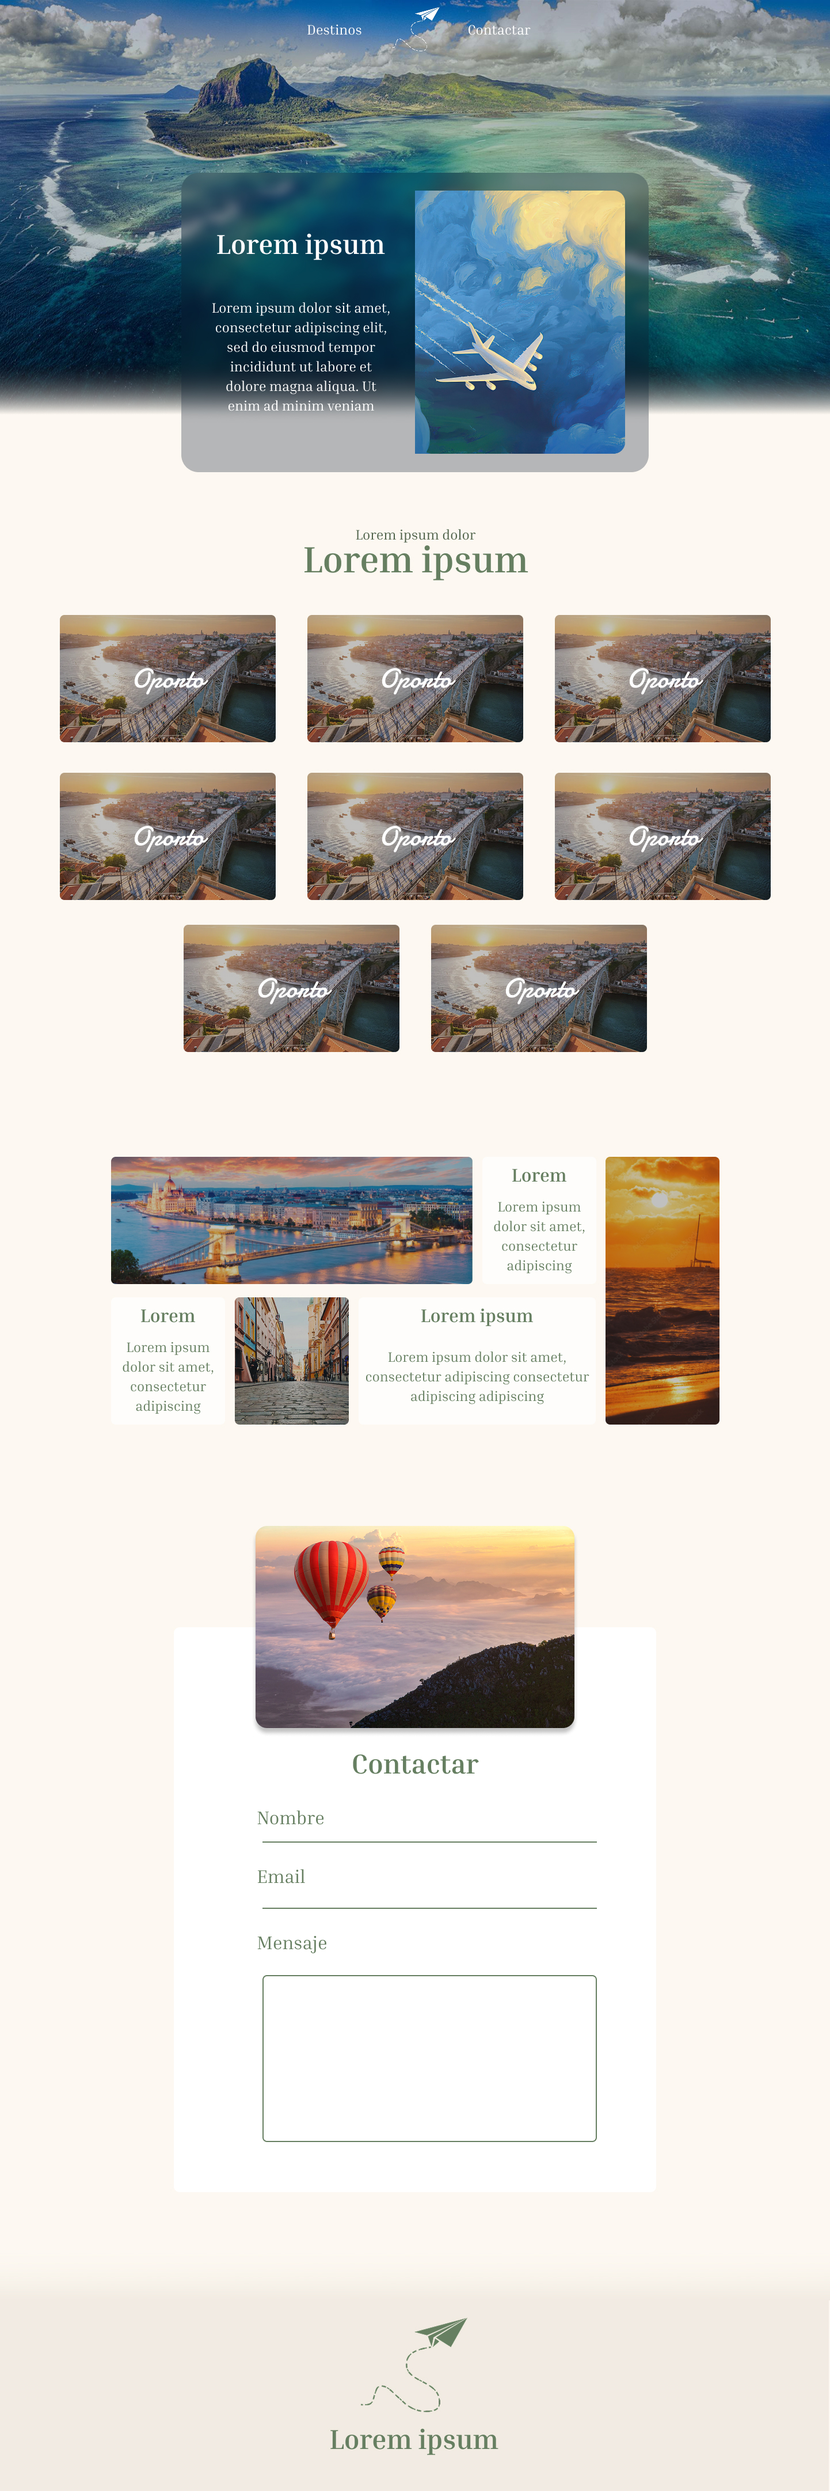
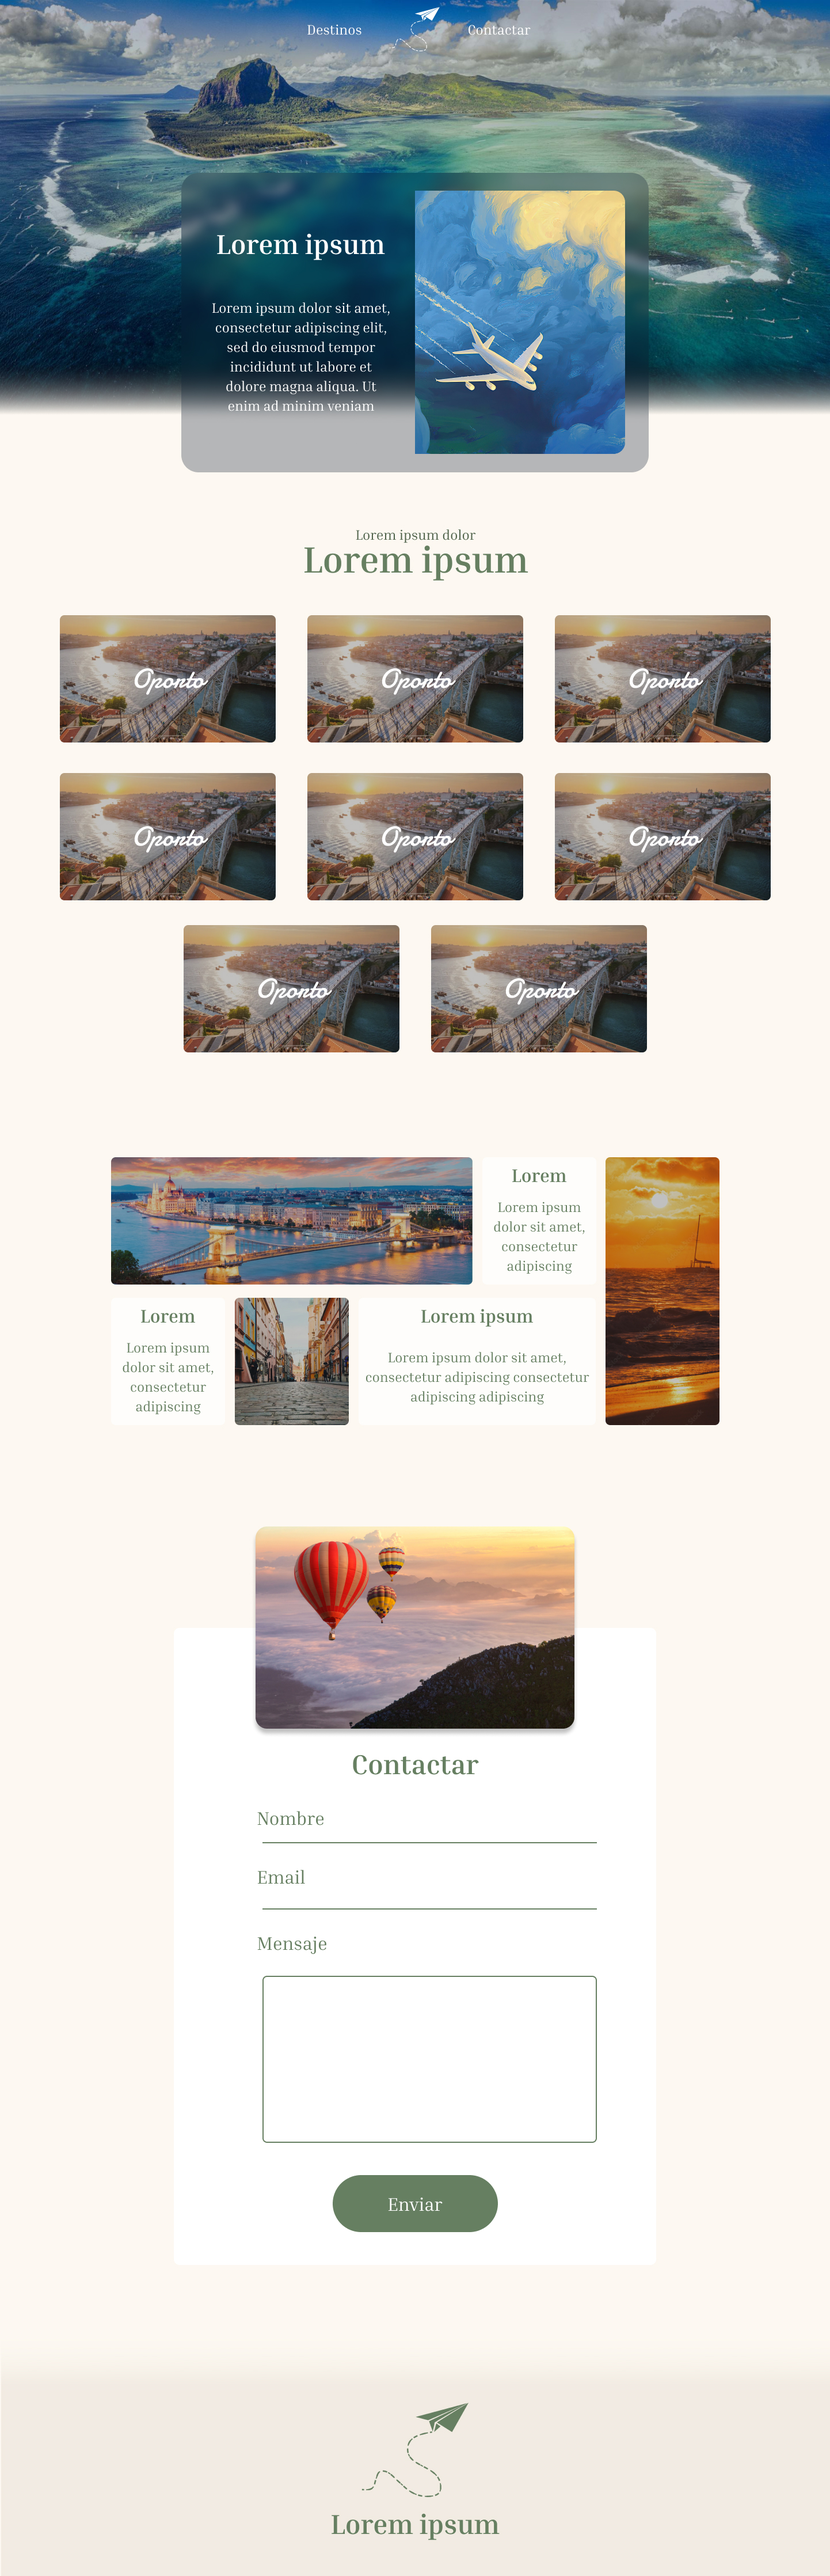
Add HTML content and update mockup 4

diff --git a/index.html b/index.html
@@ -8,35 +8,103 @@
 <body>
     <!--Nav menu START-->
     <nav>
-
+        <ul>
+            <li><a href="#fates"></a></li>
+            <li><a href="#"></a></li>
+            <li><a href="#contact"></a></li>
+        </ul>
     </nav>
     <!--Nav menu END-->
     <article>
-        <!--Header START-->
+        <!--Header section-->
         <header>
-
+            <div>
+                <div>
+                    <h1></h1>
+                    <p></p>
+                </div>
+                <img src="" alt="">
+            </div>
         </header>
-        <!--Header END-->
+        <!--END Header section-->
         <!--Places section START-->
-        <section id="places">
-
+        <section id="fates">
+            <h3></h3>
+            <h2></h2>
+            <div class="destiny">
+                <h4></h4>
+            </div>
+            <div class="destiny">
+                <h4></h4>
+            </div>
+            <div class="destiny">
+                <h4></h4>
+            </div>
+            <div class="destiny">
+                <h4></h4>
+            </div>
+            <div class="destiny">
+                <h4></h4>
+            </div>
+            <div class="destiny">
+                <h4></h4>
+            </div>
+            <div class="destiny">
+                <h4></h4>
+            </div>
+            <div class="destiny">
+                <h4></h4>
+            </div>
         </section>
-        <!--Places section END-->
-        <!--Notes section START-->
-        <section id="notes">
-
+        <!--END Places section-->
+        <!--Notes section-->
+        <section id="fates-notes">
+            <div>
+                <div></div>
+                <div>
+                    <h4></h4>
+                    <p></p>
+                </div>
+                <div></div>
+                <div>
+                    <h4></h4>
+                    <p></p>
+                </div>
+                <div></div>
+                <div>
+                    <h4></h4>
+                    <p></p>
+                </div>
+            </div>
         </section>
-        <!--Notes section END-->
-        <!--Contact form section START-->
-        <section id="contact-form">
-
+        <!--END Notes section-->
+        <!--Contact form section-->
+        <section id="contact">
+            <div>
+                <img src="" alt="">
+                <form action="">
+                    <div class="itemform">
+                        <label for=""></label>
+                        <input type="text">
+                    </div>
+                    <div class="itemform">
+                        <label for=""></label>
+                        <input type="text">
+                    </div>
+                    <div class="itemform">
+                        <label for=""></label>
+                        <textarea name="" id=""></textarea>
+                    </div>
+                </form>
+            </div>
         </section>
-        <!--Contact form section END-->
-        <!--Footer START-->
+        <!--END Contact form section-->
+        <!--Footer section-->
         <footer>
-            
+            <img src="" alt="">
+            <h4></h4>
         </footer>
-        <!--Footer END-->
+        <!--END Footer-->
     </article>
 </body>
 </html>
